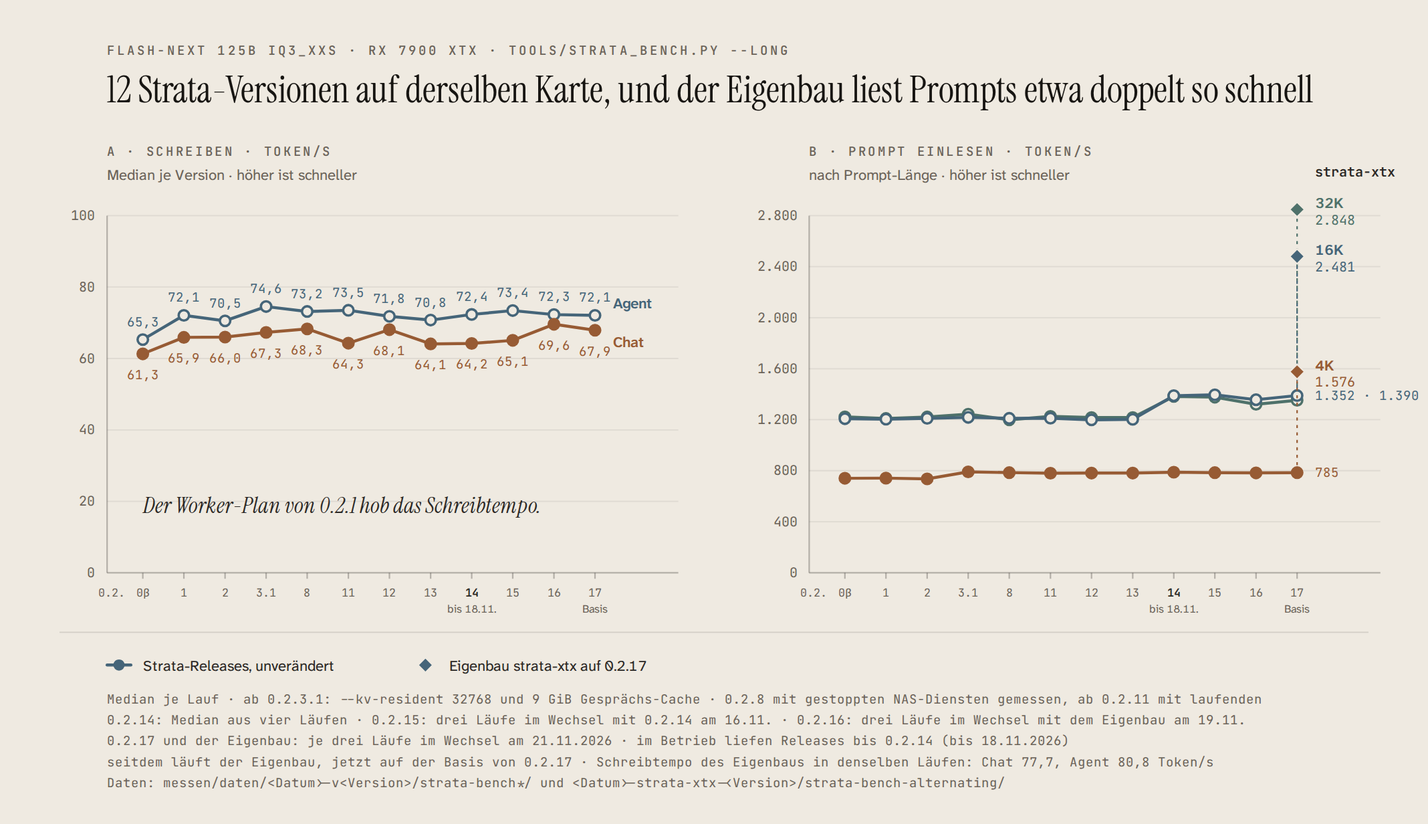
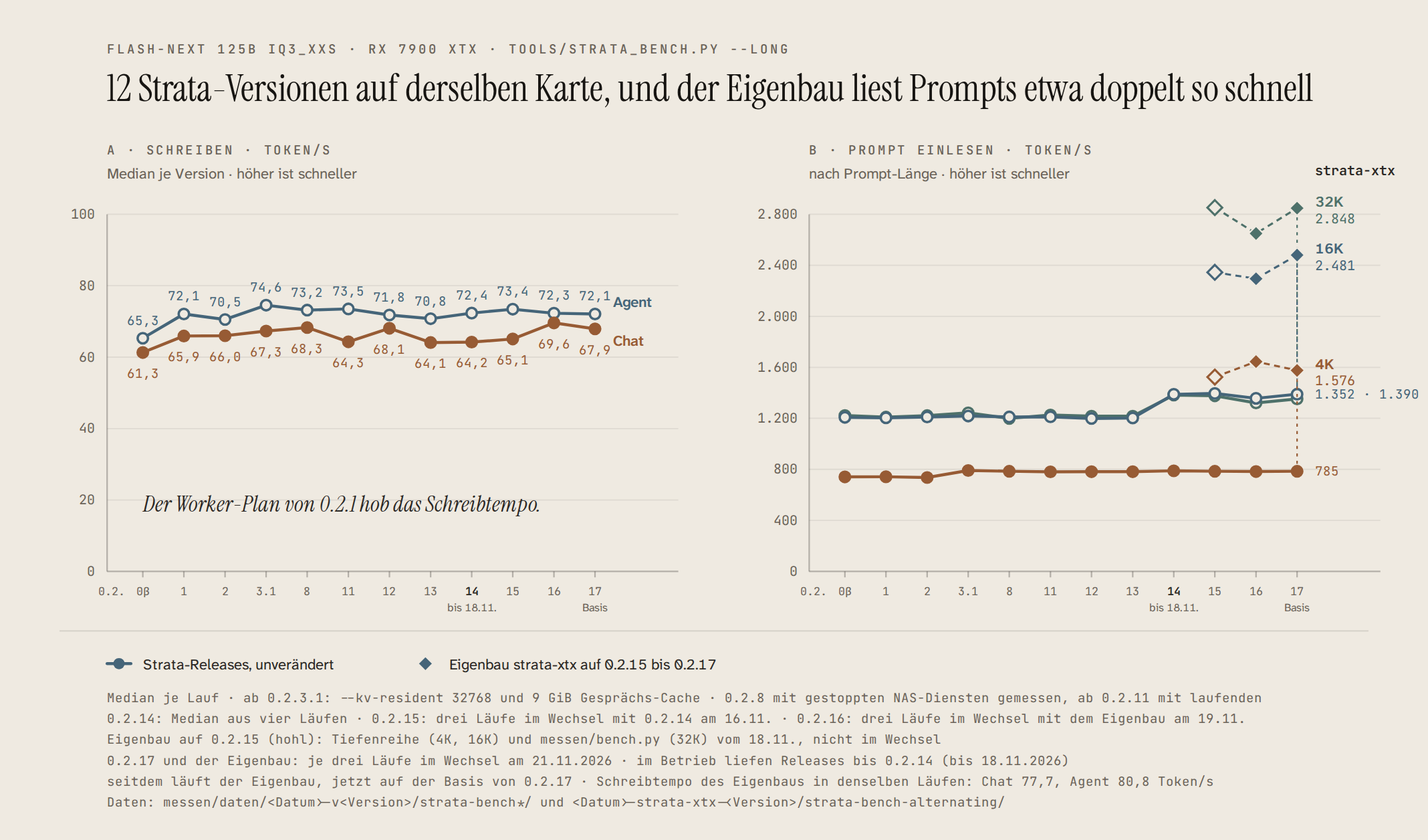
Release chart: my own build on every base it ran on (0.2.15 hollow, other measurements), dashed across 0.2.15 to 0.2.17

diff --git a/bilder/html/versionen-en.html b/bilder/html/versionen-en.html
@@ -16,10 +16,10 @@
 </head>
 <body>
   <div class="frame"><div class="scroll">
-    <svg viewBox="0 0 960 564" xmlns="http://www.w3.org/2000/svg" role="img" aria-labelledby="versionen-en-title versionen-en-desc">
+    <svg viewBox="0 0 960 580" xmlns="http://www.w3.org/2000/svg" role="img" aria-labelledby="versionen-en-title versionen-en-desc">
       <title id="versionen-en-title">12 Strata releases on the same card, and my own build reads </title>
       <desc id="versionen-en-desc">Chat and agent decode speed and prompt reading speed at 4K, 16K and 32K for Strata releases 0.2.0-beta to 0.2.17 on one RX 7900 XTX; decode stays within its scatter, prompt reading at 16K and 32K rises with 0.2.14 and holds since. My own build strata-xtx on 0.2.17 reads 1,576, 2,481 and 2,848 tokens per second at 4K, 16K and 32K.</desc>
-      <rect width="960" height="564" fill="#efeae1"/>
+      <rect width="960" height="580" fill="#efeae1"/>
       <text x="72.0" y="36.0" fill="#6a6258" font-size="8.5" font-family="'JetBrains Mono', Consolas, monospace" font-weight="500" letter-spacing="0.16em">FLASH-NEXT 125B IQ3_XXS · RX 7900 XTX · TOOLS/STRATA_BENCH.PY --LONG</text>
       <text x="72.0" y="68.0" fill="#171512" font-size="25" font-family="'Instrument Serif', Georgia, serif">12 Strata releases on the same card, and my own build reads prompts about twice as fast</text>
       <text x="72.0" y="104.0" fill="#6a6258" font-size="8.5" font-family="'JetBrains Mono', Consolas, monospace" font-weight="500" letter-spacing="0.14em">A · DECODE · TOKENS/S</text>
@@ -176,6 +176,9 @@
       <circle cx="844.4" cy="270.8" r="3.5" fill="#efeae1" stroke="#4e716a" stroke-width="1.6"/>
       <circle cx="872.0" cy="268.1" r="3.5" fill="#efeae1" stroke="#4e716a" stroke-width="1.6"/>
       <line x1="872.0" y1="263.1" x2="872.0" y2="145.9" stroke="#4e716a" stroke-width="1" stroke-dasharray="2,3"/>
+      <polyline points="816.7,139.5 844.4,156.9 872.0,139.9" fill="none" stroke="#4e716a" stroke-width="1.4" stroke-dasharray="4,3"/>
+      <path d="M816.7,134.5 l5,5 l-5,5 l-5,-5 z" fill="#efeae1" stroke="#4e716a" stroke-width="1.4"/>
+      <path d="M844.4,151.9 l5,5 l-5,5 l-5,-5 z" fill="#4e716a" stroke="#efeae1" stroke-width="1"/>
       <path d="M872.0,134.9 l5,5 l-5,5 l-5,-5 z" fill="#4e716a" stroke="#efeae1" stroke-width="1"/>
       <polyline points="568.0,280.5 595.6,280.8 623.3,280.2 650.9,279.6 678.5,280.2 706.2,280.1 733.8,281.2 761.5,280.9 789.1,265.0 816.7,264.4 844.4,267.7 872.0,264.9" fill="none" stroke="#456579" stroke-width="2" stroke-linejoin="round" stroke-linecap="round"/>
       <circle cx="568.0" cy="280.5" r="3.5" fill="#efeae1" stroke="#456579" stroke-width="1.6"/>
@@ -191,6 +194,9 @@
       <circle cx="844.4" cy="267.7" r="3.5" fill="#efeae1" stroke="#456579" stroke-width="1.6"/>
       <circle cx="872.0" cy="264.9" r="3.5" fill="#efeae1" stroke="#456579" stroke-width="1.6"/>
       <line x1="872.0" y1="259.9" x2="872.0" y2="177.4" stroke="#456579" stroke-width="1" stroke-dasharray="2,3"/>
+      <polyline points="816.7,183.0 844.4,187.3 872.0,171.4" fill="none" stroke="#456579" stroke-width="1.4" stroke-dasharray="4,3"/>
+      <path d="M816.7,178.0 l5,5 l-5,5 l-5,-5 z" fill="#efeae1" stroke="#456579" stroke-width="1.4"/>
+      <path d="M844.4,182.3 l5,5 l-5,5 l-5,-5 z" fill="#456579" stroke="#efeae1" stroke-width="1"/>
       <path d="M872.0,166.4 l5,5 l-5,5 l-5,-5 z" fill="#456579" stroke="#efeae1" stroke-width="1"/>
       <polyline points="568.0,320.5 595.6,320.4 623.3,320.9 650.9,316.2 678.5,316.7 706.2,317.1 733.8,317.0 761.5,317.0 789.1,316.4 816.7,316.7 844.4,316.9 872.0,316.7" fill="none" stroke="#975b34" stroke-width="2" stroke-linejoin="round" stroke-linecap="round"/>
       <circle cx="568.0" cy="320.5" r="3.5" fill="#975b34" stroke="#975b34" stroke-width="1.6"/>
@@ -206,6 +212,9 @@
       <circle cx="844.4" cy="316.9" r="3.5" fill="#975b34" stroke="#975b34" stroke-width="1.6"/>
       <circle cx="872.0" cy="316.7" r="3.5" fill="#975b34" stroke="#975b34" stroke-width="1.6"/>
       <line x1="872.0" y1="311.7" x2="872.0" y2="254.9" stroke="#975b34" stroke-width="1" stroke-dasharray="2,3"/>
+      <polyline points="816.7,253.4 844.4,243.0 872.0,248.9" fill="none" stroke="#975b34" stroke-width="1.4" stroke-dasharray="4,3"/>
+      <path d="M816.7,248.4 l5,5 l-5,5 l-5,-5 z" fill="#efeae1" stroke="#975b34" stroke-width="1.4"/>
+      <path d="M844.4,238.0 l5,5 l-5,5 l-5,-5 z" fill="#975b34" stroke="#efeae1" stroke-width="1"/>
       <path d="M872.0,243.9 l5,5 l-5,5 l-5,-5 z" fill="#975b34" stroke="#efeae1" stroke-width="1"/>
       <text x="884.0" y="138.9" fill="#4e716a" font-size="10" font-family="'Atkinson Hyperlegible Next', 'Segoe UI', sans-serif" font-weight="600">32K</text>
       <text x="884.0" y="149.9" fill="#4e716a" font-size="9" font-family="'JetBrains Mono', Consolas, monospace">2,848</text>
@@ -222,13 +231,14 @@
       <circle cx="80.0" cy="446.0" r="3" fill="#456579" stroke="#456579" stroke-width="1.6"/>
       <text x="96.0" y="450.0" fill="#2a2724" font-size="10" font-family="'Atkinson Hyperlegible Next', 'Segoe UI', sans-serif">Strata releases, unchanged</text>
       <path d="M275.0,441.0 l5,5 l-5,5 l-5,-5 z" fill="#456579" stroke="#efeae1" stroke-width="1"/>
-      <text x="291.0" y="450.0" fill="#2a2724" font-size="10" font-family="'Atkinson Hyperlegible Next', 'Segoe UI', sans-serif">my own build strata-xtx on 0.2.17</text>
+      <text x="291.0" y="450.0" fill="#2a2724" font-size="10" font-family="'Atkinson Hyperlegible Next', 'Segoe UI', sans-serif">my own build strata-xtx on 0.2.15 to 0.2.17</text>
       <text x="72.0" y="472.0" fill="#6a6258" font-size="8.5" font-family="'JetBrains Mono', Consolas, monospace">median per run · from 0.2.3.1: --kv-resident 32768 and 9 GiB conversation cache</text>
       <text x="72.0" y="486.0" fill="#6a6258" font-size="8.5" font-family="'JetBrains Mono', Consolas, monospace">0.2.8 measured with the NAS services stopped, from 0.2.11 with them running · 0.2.14: median of four runs</text>
       <text x="72.0" y="500.0" fill="#6a6258" font-size="8.5" font-family="'JetBrains Mono', Consolas, monospace">0.2.15: three runs alternating with 0.2.14 on 16 Nov · 0.2.16: three runs alternating with my own build on 19 Nov</text>
-      <text x="72.0" y="514.0" fill="#6a6258" font-size="8.5" font-family="'JetBrains Mono', Consolas, monospace">0.2.17 and my own build: three runs each, alternating, on 21 Nov 2026 · releases were in use up to 0.2.14 (until 18 Nov 2026)</text>
-      <text x="72.0" y="528.0" fill="#6a6258" font-size="8.5" font-family="'JetBrains Mono', Consolas, monospace">since then my own build runs, now on the base of 0.2.17 · decode of the own build in the same runs: chat 77.7, agent 80.8 tokens/s</text>
-      <text x="72.0" y="542.0" fill="#6a6258" font-size="8.5" font-family="'JetBrains Mono', Consolas, monospace">data: messen/daten/&lt;date&gt;-v&lt;release&gt;/strata-bench*/ and &lt;date&gt;-strata-xtx-&lt;release&gt;/strata-bench-alternating/</text>
+      <text x="72.0" y="514.0" fill="#6a6258" font-size="8.5" font-family="'JetBrains Mono', Consolas, monospace">my own build on 0.2.15 (hollow): depth series (4K, 16K) and messen/bench.py (32K) on 18 Nov, not alternating</text>
+      <text x="72.0" y="528.0" fill="#6a6258" font-size="8.5" font-family="'JetBrains Mono', Consolas, monospace">0.2.17 and my own build: three runs each, alternating, on 21 Nov 2026 · releases were in use up to 0.2.14 (until 18 Nov 2026)</text>
+      <text x="72.0" y="542.0" fill="#6a6258" font-size="8.5" font-family="'JetBrains Mono', Consolas, monospace">since then my own build runs, now on the base of 0.2.17 · decode of the own build in the same runs: chat 77.7, agent 80.8 tokens/s</text>
+      <text x="72.0" y="556.0" fill="#6a6258" font-size="8.5" font-family="'JetBrains Mono', Consolas, monospace">data: messen/daten/&lt;date&gt;-v&lt;release&gt;/strata-bench*/ and &lt;date&gt;-strata-xtx-&lt;release&gt;/strata-bench-alternating/</text>
     </svg>
   </div></div>
 </body>

diff --git a/bilder/html/versionen-de.html b/bilder/html/versionen-de.html
@@ -16,10 +16,10 @@
 </head>
 <body>
   <div class="frame"><div class="scroll">
-    <svg viewBox="0 0 960 552" xmlns="http://www.w3.org/2000/svg" role="img" aria-labelledby="versionen-de-title versionen-de-desc">
+    <svg viewBox="0 0 960 564" xmlns="http://www.w3.org/2000/svg" role="img" aria-labelledby="versionen-de-title versionen-de-desc">
       <title id="versionen-de-title">12 Strata-Versionen auf derselben Karte, und der Eigenbau li</title>
       <desc id="versionen-de-desc">Schreibtempo für Chat und Agent und Einlesetempo bei 4K, 16K und 32K für die Strata-Versionen 0.2.0-beta bis 0.2.17 auf einer RX 7900 XTX; das Schreibtempo bleibt in seiner Streuung, das Einlesen bei 16K und 32K steigt mit 0.2.14 und hält seitdem. Der Eigenbau strata-xtx auf 0.2.17 liest bei 4K, 16K und 32K 1.576, 2.481 und 2.848 Token je Sekunde.</desc>
-      <rect width="960" height="552" fill="#efeae1"/>
+      <rect width="960" height="564" fill="#efeae1"/>
       <text x="72.0" y="36.0" fill="#6a6258" font-size="8.5" font-family="'JetBrains Mono', Consolas, monospace" font-weight="500" letter-spacing="0.16em">FLASH-NEXT 125B IQ3_XXS · RX 7900 XTX · TOOLS/STRATA_BENCH.PY --LONG</text>
       <text x="72.0" y="68.0" fill="#171512" font-size="25" font-family="'Instrument Serif', Georgia, serif">12 Strata-Versionen auf derselben Karte, und der Eigenbau liest Prompts etwa doppelt so schnell</text>
       <text x="72.0" y="104.0" fill="#6a6258" font-size="8.5" font-family="'JetBrains Mono', Consolas, monospace" font-weight="500" letter-spacing="0.14em">A · SCHREIBEN · TOKEN/S</text>
@@ -176,6 +176,9 @@
       <circle cx="844.4" cy="270.8" r="3.5" fill="#efeae1" stroke="#4e716a" stroke-width="1.6"/>
       <circle cx="872.0" cy="268.1" r="3.5" fill="#efeae1" stroke="#4e716a" stroke-width="1.6"/>
       <line x1="872.0" y1="263.1" x2="872.0" y2="145.9" stroke="#4e716a" stroke-width="1" stroke-dasharray="2,3"/>
+      <polyline points="816.7,139.5 844.4,156.9 872.0,139.9" fill="none" stroke="#4e716a" stroke-width="1.4" stroke-dasharray="4,3"/>
+      <path d="M816.7,134.5 l5,5 l-5,5 l-5,-5 z" fill="#efeae1" stroke="#4e716a" stroke-width="1.4"/>
+      <path d="M844.4,151.9 l5,5 l-5,5 l-5,-5 z" fill="#4e716a" stroke="#efeae1" stroke-width="1"/>
       <path d="M872.0,134.9 l5,5 l-5,5 l-5,-5 z" fill="#4e716a" stroke="#efeae1" stroke-width="1"/>
       <polyline points="568.0,280.5 595.6,280.8 623.3,280.2 650.9,279.6 678.5,280.2 706.2,280.1 733.8,281.2 761.5,280.9 789.1,265.0 816.7,264.4 844.4,267.7 872.0,264.9" fill="none" stroke="#456579" stroke-width="2" stroke-linejoin="round" stroke-linecap="round"/>
       <circle cx="568.0" cy="280.5" r="3.5" fill="#efeae1" stroke="#456579" stroke-width="1.6"/>
@@ -191,6 +194,9 @@
       <circle cx="844.4" cy="267.7" r="3.5" fill="#efeae1" stroke="#456579" stroke-width="1.6"/>
       <circle cx="872.0" cy="264.9" r="3.5" fill="#efeae1" stroke="#456579" stroke-width="1.6"/>
       <line x1="872.0" y1="259.9" x2="872.0" y2="177.4" stroke="#456579" stroke-width="1" stroke-dasharray="2,3"/>
+      <polyline points="816.7,183.0 844.4,187.3 872.0,171.4" fill="none" stroke="#456579" stroke-width="1.4" stroke-dasharray="4,3"/>
+      <path d="M816.7,178.0 l5,5 l-5,5 l-5,-5 z" fill="#efeae1" stroke="#456579" stroke-width="1.4"/>
+      <path d="M844.4,182.3 l5,5 l-5,5 l-5,-5 z" fill="#456579" stroke="#efeae1" stroke-width="1"/>
       <path d="M872.0,166.4 l5,5 l-5,5 l-5,-5 z" fill="#456579" stroke="#efeae1" stroke-width="1"/>
       <polyline points="568.0,320.5 595.6,320.4 623.3,320.9 650.9,316.2 678.5,316.7 706.2,317.1 733.8,317.0 761.5,317.0 789.1,316.4 816.7,316.7 844.4,316.9 872.0,316.7" fill="none" stroke="#975b34" stroke-width="2" stroke-linejoin="round" stroke-linecap="round"/>
       <circle cx="568.0" cy="320.5" r="3.5" fill="#975b34" stroke="#975b34" stroke-width="1.6"/>
@@ -206,6 +212,9 @@
       <circle cx="844.4" cy="316.9" r="3.5" fill="#975b34" stroke="#975b34" stroke-width="1.6"/>
       <circle cx="872.0" cy="316.7" r="3.5" fill="#975b34" stroke="#975b34" stroke-width="1.6"/>
       <line x1="872.0" y1="311.7" x2="872.0" y2="254.9" stroke="#975b34" stroke-width="1" stroke-dasharray="2,3"/>
+      <polyline points="816.7,253.4 844.4,243.0 872.0,248.9" fill="none" stroke="#975b34" stroke-width="1.4" stroke-dasharray="4,3"/>
+      <path d="M816.7,248.4 l5,5 l-5,5 l-5,-5 z" fill="#efeae1" stroke="#975b34" stroke-width="1.4"/>
+      <path d="M844.4,238.0 l5,5 l-5,5 l-5,-5 z" fill="#975b34" stroke="#efeae1" stroke-width="1"/>
       <path d="M872.0,243.9 l5,5 l-5,5 l-5,-5 z" fill="#975b34" stroke="#efeae1" stroke-width="1"/>
       <text x="884.0" y="138.9" fill="#4e716a" font-size="10" font-family="'Atkinson Hyperlegible Next', 'Segoe UI', sans-serif" font-weight="600">32K</text>
       <text x="884.0" y="149.9" fill="#4e716a" font-size="9" font-family="'JetBrains Mono', Consolas, monospace">2.848</text>
@@ -222,12 +231,13 @@
       <circle cx="80.0" cy="446.0" r="3" fill="#456579" stroke="#456579" stroke-width="1.6"/>
       <text x="96.0" y="450.0" fill="#2a2724" font-size="10" font-family="'Atkinson Hyperlegible Next', 'Segoe UI', sans-serif">Strata-Releases, unverändert</text>
       <path d="M286.0,441.0 l5,5 l-5,5 l-5,-5 z" fill="#456579" stroke="#efeae1" stroke-width="1"/>
-      <text x="302.0" y="450.0" fill="#2a2724" font-size="10" font-family="'Atkinson Hyperlegible Next', 'Segoe UI', sans-serif">Eigenbau strata-xtx auf 0.2.17</text>
+      <text x="302.0" y="450.0" fill="#2a2724" font-size="10" font-family="'Atkinson Hyperlegible Next', 'Segoe UI', sans-serif">Eigenbau strata-xtx auf 0.2.15 bis 0.2.17</text>
       <text x="72.0" y="472.0" fill="#6a6258" font-size="8.5" font-family="'JetBrains Mono', Consolas, monospace">Median je Lauf · ab 0.2.3.1: --kv-resident 32768 und 9 GiB Gesprächs-Cache · 0.2.8 mit gestoppten NAS-Diensten gemessen, ab 0.2.11 mit laufenden</text>
       <text x="72.0" y="486.0" fill="#6a6258" font-size="8.5" font-family="'JetBrains Mono', Consolas, monospace">0.2.14: Median aus vier Läufen · 0.2.15: drei Läufe im Wechsel mit 0.2.14 am 16.11. · 0.2.16: drei Läufe im Wechsel mit dem Eigenbau am 19.11.</text>
-      <text x="72.0" y="500.0" fill="#6a6258" font-size="8.5" font-family="'JetBrains Mono', Consolas, monospace">0.2.17 und der Eigenbau: je drei Läufe im Wechsel am 21.11.2026 · im Betrieb liefen Releases bis 0.2.14 (bis 18.11.2026)</text>
-      <text x="72.0" y="514.0" fill="#6a6258" font-size="8.5" font-family="'JetBrains Mono', Consolas, monospace">seitdem läuft der Eigenbau, jetzt auf der Basis von 0.2.17 · Schreibtempo des Eigenbaus in denselben Läufen: Chat 77,7, Agent 80,8 Token/s</text>
-      <text x="72.0" y="528.0" fill="#6a6258" font-size="8.5" font-family="'JetBrains Mono', Consolas, monospace">Daten: messen/daten/&lt;Datum&gt;-v&lt;Version&gt;/strata-bench*/ und &lt;Datum&gt;-strata-xtx-&lt;Version&gt;/strata-bench-alternating/</text>
+      <text x="72.0" y="500.0" fill="#6a6258" font-size="8.5" font-family="'JetBrains Mono', Consolas, monospace">Eigenbau auf 0.2.15 (hohl): Tiefenreihe (4K, 16K) und messen/bench.py (32K) vom 18.11., nicht im Wechsel</text>
+      <text x="72.0" y="514.0" fill="#6a6258" font-size="8.5" font-family="'JetBrains Mono', Consolas, monospace">0.2.17 und der Eigenbau: je drei Läufe im Wechsel am 21.11.2026 · im Betrieb liefen Releases bis 0.2.14 (bis 18.11.2026)</text>
+      <text x="72.0" y="528.0" fill="#6a6258" font-size="8.5" font-family="'JetBrains Mono', Consolas, monospace">seitdem läuft der Eigenbau, jetzt auf der Basis von 0.2.17 · Schreibtempo des Eigenbaus in denselben Läufen: Chat 77,7, Agent 80,8 Token/s</text>
+      <text x="72.0" y="542.0" fill="#6a6258" font-size="8.5" font-family="'JetBrains Mono', Consolas, monospace">Daten: messen/daten/&lt;Datum&gt;-v&lt;Version&gt;/strata-bench*/ und &lt;Datum&gt;-strata-xtx-&lt;Version&gt;/strata-bench-alternating/</text>
     </svg>
   </div></div>
 </body>

diff --git a/messen/diagramme.py b/messen/diagramme.py
@@ -59,8 +59,9 @@ class Svg:
         f = PAPER if hohl else farbe
         self.e.append(f'<circle cx="{x:.1f}" cy="{y:.1f}" r="{r}" fill="{f}" stroke="{farbe}" stroke-width="1.6"/>')
 
-    def raute(self, x, y, farbe, r=5):
-        self.e.append(f'<path d="M{x:.1f},{y - r:.1f} l{r},{r} l{-r},{r} l{-r},{-r} z" fill="{farbe}" stroke="{PAPER}" stroke-width="1"/>')
+    def raute(self, x, y, farbe, r=5, hohl=False):
+        rand = f'stroke="{farbe}" stroke-width="1.4"' if hohl else f'stroke="{PAPER}" stroke-width="1"'
+        self.e.append(f'<path d="M{x:.1f},{y - r:.1f} l{r},{r} l{-r},{r} l{-r},{-r} z" fill="{PAPER if hohl else farbe}" {rand}/>')
 
     def zug(self, pts, farbe, sw=2):
         p = " ".join(f"{x:.1f},{y:.1f}" for x, y in pts)
@@ -372,6 +373,11 @@ VERSIONEN = [("0.2.0β", "2026-10-19/strata-0.2.0-beta/strata-bench-results.json
              ("0.2.17", [f"{XTX_DATEN}/strata-bench-alternating/round{n}-release-0.2.17.json" for n in (1, 2, 3)])]   # dasselbe am 21.11.
 XTX_BENCH = [f"{XTX_DATEN}/strata-bench-alternating/round{n}-strata-xtx-{XTX_VER}.json" for n in (1, 2, 3)]            # der Eigenbau auf derselben Basis
 IN_BETRIEB, GEPRUEFT = "0.2.14", XTX_VER   # letztes Release im Betrieb · Basis des Eigenbaus
+# Der Eigenbau auf jeder Basis, auf der er lief (Franks Wunsch 21.11.2026). 0.2.16 und 0.2.17: strata_bench im Wechsel.
+# 0.2.15 wurde nicht mit strata_bench gemessen: 4K und 16K aus der Tiefenreihe, 32K aus messen/bench.py, beide 18.11.2026; im Diagramm hohl.
+XTX_VERLAUF = [("0.2.15", "tiefe+bench", "2026-11-18-strata-xtx"),
+               ("0.2.16", [f"{XTX_VOR}/strata-bench-alternating/round{n}-strata-xtx-0.2.16.json" for n in (1, 2, 3)], None),
+               (XTX_VER, XTX_BENCH, None)]
 
 
 def versionen(d, sp):
@@ -381,6 +387,14 @@ def versionen(d, sp):
         return {k: med([w[k] for w in ws]) for k in ws[0]}
     werte = [lauf(p) for _, p in VERSIONEN]
     xtx = lauf(XTX_BENCH)
+    def xtx_basis(quelle, ordner):                 # 0.2.15: andere Messart (siehe XTX_VERLAUF)
+        if quelle != "tiefe+bench":
+            return lauf(quelle), False
+        td = tiefe_daten(d, "tiefe-20261118.jsonl")["faber-xtx"]
+        b = json.load(open(os.path.join(d, ordner, "bench", "faber-xtx.json"), encoding="utf-8"))
+        return {"4K": med([r["prompt_tps"] for r in td[4096]]), "16K": med([r["prompt_tps"] for r in td[16384]]), "32K": b["einlesen_32000"]["tps_median"]}, True
+    namen = [nm for nm, _ in VERSIONEN]
+    verlauf = [(namen.index(v), *xtx_basis(q, o)) for v, q, o in XTX_VERLAUF if v in namen]
     n = len(werte)
     s = Svg()
     zahlwort = {8: ("Eight", "Acht"), 9: ("Nine", "Neun"), 10: ("Ten", "Zehn"), 11: ("Eleven", "Elf")}.get(n, (str(n), str(n)))
@@ -413,7 +427,10 @@ def versionen(d, sp):
                 marken.append((p.Y(ys[-1]), farbe, name, None))
             else:                                  # der Eigenbau auf derselben Basis: Raute über dem letzten Release
                 s.line(X(n - 1), p.Y(ys[-1]) - 5, X(n - 1), p.Y(xtx[schl]) + 6, f'stroke="{farbe}" stroke-width="1" stroke-dasharray="2,3"')
-                s.raute(X(n - 1), p.Y(xtx[schl]), farbe)
+                pts = [(X(i), p.Y(w_[schl])) for i, w_, _ in verlauf]
+                s.roh(f'<polyline points="{" ".join(f"{a:.1f},{b:.1f}" for a, b in pts)}" fill="none" stroke="{farbe}" stroke-width="1.4" stroke-dasharray="4,3"/>')
+                for (i, w_, hohl_), (a, b) in zip(verlauf, pts):
+                    s.raute(a, b, farbe, hohl=hohl_)
                 marken.append((p.Y(xtx[schl]), farbe, name, z(xtx[schl], sp)))
         endmarken(s, X(n - 1) + 12, marken)
         if not jeder:
@@ -421,9 +438,9 @@ def versionen(d, sp):
             s.text(X(n - 1) + 12, p.Y(werte[-1]["16K"]) + 3, f"{z(werte[-1]['32K'], sp)} · {z(werte[-1]['16K'], sp)}", 8.5, STAHL, "mono")
             s.text(X(n - 1) + 12, p.Y(werte[-1]["4K"]) + 3, z(werte[-1]["4K"], sp), 8.5, ACC, "mono")
     s.text(L + 24, 344, "0.2.1's worker plan for hybrid CPUs lifted decode." if en else "Der Worker-Plan von 0.2.1 hob das Schreibtempo.", 15, INK, "serif", kursiv=True)
-    h = fuss(s, 424, (("linie", STAHL, "Strata releases, unchanged" if en else "Strata-Releases, unverändert"), ("raute", STAHL, f"my own build strata-xtx on {XTX_VER}" if en else f"Eigenbau strata-xtx auf {XTX_VER}")),
-             f"median per run · from 0.2.3.1: --kv-resident 32768 and 9 GiB conversation cache · 0.2.8 measured with the NAS services stopped, from 0.2.11 with them running · 0.2.14: median of four runs · 0.2.15: three runs alternating with 0.2.14 on 16 Nov · 0.2.16: three runs alternating with my own build on 19 Nov · {XTX_VER} and my own build: three runs each, alternating, on {XTX_TAG['en']} · releases were in use up to 0.2.14 (until 18 Nov 2026) · since then my own build runs, now on the base of {XTX_VER} · decode of the own build in the same runs: chat {z(xtx['chat'], sp)}, agent {z(xtx['agent'], sp)} tokens/s · data: messen/daten/<date>-v<release>/strata-bench*/ and <date>-strata-xtx-<release>/strata-bench-alternating/" if en else
-             f"Median je Lauf · ab 0.2.3.1: --kv-resident 32768 und 9 GiB Gesprächs-Cache · 0.2.8 mit gestoppten NAS-Diensten gemessen, ab 0.2.11 mit laufenden · 0.2.14: Median aus vier Läufen · 0.2.15: drei Läufe im Wechsel mit 0.2.14 am 16.11. · 0.2.16: drei Läufe im Wechsel mit dem Eigenbau am 19.11. · {XTX_VER} und der Eigenbau: je drei Läufe im Wechsel am {XTX_TAG['de']} · im Betrieb liefen Releases bis 0.2.14 (bis 18.11.2026) · seitdem läuft der Eigenbau, jetzt auf der Basis von {XTX_VER} · Schreibtempo des Eigenbaus in denselben Läufen: Chat {z(xtx['chat'], sp)}, Agent {z(xtx['agent'], sp)} Token/s · Daten: messen/daten/<Datum>-v<Version>/strata-bench*/ und <Datum>-strata-xtx-<Version>/strata-bench-alternating/")
+    h = fuss(s, 424, (("linie", STAHL, "Strata releases, unchanged" if en else "Strata-Releases, unverändert"), ("raute", STAHL, f"my own build strata-xtx on 0.2.15 to {XTX_VER}" if en else f"Eigenbau strata-xtx auf 0.2.15 bis {XTX_VER}")),
+             f"median per run · from 0.2.3.1: --kv-resident 32768 and 9 GiB conversation cache · 0.2.8 measured with the NAS services stopped, from 0.2.11 with them running · 0.2.14: median of four runs · 0.2.15: three runs alternating with 0.2.14 on 16 Nov · 0.2.16: three runs alternating with my own build on 19 Nov · my own build on 0.2.15 (hollow): depth series (4K, 16K) and messen/bench.py (32K) on 18 Nov, not alternating · {XTX_VER} and my own build: three runs each, alternating, on {XTX_TAG['en']} · releases were in use up to 0.2.14 (until 18 Nov 2026) · since then my own build runs, now on the base of {XTX_VER} · decode of the own build in the same runs: chat {z(xtx['chat'], sp)}, agent {z(xtx['agent'], sp)} tokens/s · data: messen/daten/<date>-v<release>/strata-bench*/ and <date>-strata-xtx-<release>/strata-bench-alternating/" if en else
+             f"Median je Lauf · ab 0.2.3.1: --kv-resident 32768 und 9 GiB Gesprächs-Cache · 0.2.8 mit gestoppten NAS-Diensten gemessen, ab 0.2.11 mit laufenden · 0.2.14: Median aus vier Läufen · 0.2.15: drei Läufe im Wechsel mit 0.2.14 am 16.11. · 0.2.16: drei Läufe im Wechsel mit dem Eigenbau am 19.11. · Eigenbau auf 0.2.15 (hohl): Tiefenreihe (4K, 16K) und messen/bench.py (32K) vom 18.11., nicht im Wechsel · {XTX_VER} und der Eigenbau: je drei Läufe im Wechsel am {XTX_TAG['de']} · im Betrieb liefen Releases bis 0.2.14 (bis 18.11.2026) · seitdem läuft der Eigenbau, jetzt auf der Basis von {XTX_VER} · Schreibtempo des Eigenbaus in denselben Läufen: Chat {z(xtx['chat'], sp)}, Agent {z(xtx['agent'], sp)} Token/s · Daten: messen/daten/<Datum>-v<Version>/strata-bench*/ und <Datum>-strata-xtx-<Version>/strata-bench-alternating/")
     return "versionen", titel, (f"Chat and agent decode speed and prompt reading speed at 4K, 16K and 32K for Strata releases 0.2.0-beta to {VERSIONEN[-1][0]} on one RX 7900 XTX; decode stays within its scatter, prompt reading at 16K and 32K rises with 0.2.14 and holds since. My own build strata-xtx on {XTX_VER} reads {z(xtx['4K'], sp)}, {z(xtx['16K'], sp)} and {z(xtx['32K'], sp)} tokens per second at 4K, 16K and 32K." if en else
                                 f"Schreibtempo für Chat und Agent und Einlesetempo bei 4K, 16K und 32K für die Strata-Versionen 0.2.0-beta bis {VERSIONEN[-1][0]} auf einer RX 7900 XTX; das Schreibtempo bleibt in seiner Streuung, das Einlesen bei 16K und 32K steigt mit 0.2.14 und hält seitdem. Der Eigenbau strata-xtx auf {XTX_VER} liest bei 4K, 16K und 32K {z(xtx['4K'], sp)}, {z(xtx['16K'], sp)} und {z(xtx['32K'], sp)} Token je Sekunde."), s, h
 

diff --git a/web/bau.py b/web/bau.py
@@ -419,8 +419,8 @@ def seite(sp):
 
     kapitel(9, "versionen", T("Hält es über Versionen?", "Does it hold across releases?"))
     A(bild(D.versionen, sp))
-    P(T(f"Jede Strata-Version seit 0.2.0-beta ist hier gegen ihre Vorgängerin gemessen, mit identischer Konfiguration. Bis 0.2.13 wurde nichts langsamer. <b>0.2.14</b> liest Prompts von 16K und 32K rund 15 % schneller und schreibt gleich schnell. <b>0.2.15</b> bringt nur ein neues Steuerprogramm. <b>0.2.16</b>, geprüft am 19.11.2026, hat einen eigenen Engine-Code und eine neue Ordnerstruktur; auf dieser Karte ändert es am Tempo nichts: Im direkten Wechsel mit 0.2.15 schreibt es 61 gegen 60 Token je Sekunde. <b>0.2.17</b>, geprüft am {XD}, ebenso: im Wechsel mit 0.2.16 62 gegen 62 Token je Sekunde, und es liest gleich schnell. Bis zum 18.11.2026 lief hier jeweils das Release. Seitdem läuft mein Eigenbau, seit dem {XD} auf der Basis von {XV}; die Rauten im Diagramm zeigen ihn, in denselben Läufen im Wechsel mit dem Release gemessen.",
-        f"Every Strata release since 0.2.0-beta was measured here against the one before it, with the identical configuration. Up to 0.2.13 nothing got slower. <b>0.2.14</b> reads prompts of 16K and 32K about 15 % faster and writes equally fast. <b>0.2.15</b> only brings a new control program. <b>0.2.16</b>, tested on 19 Nov 2026, has its own engine code and a new folder layout; on this card it changes nothing about speed: alternating directly with 0.2.15 it writes 61 against 60 tokens per second. <b>0.2.17</b>, tested on {XE}, likewise: alternating with 0.2.16 it writes 62 against 62 tokens per second, and it reads equally fast. Until 18 Nov 2026 the release itself ran here. Since then my own build runs, since {XE} on the base of {XV}; the diamonds in the chart show it, measured in the same runs alternating with the release.")
+    P(T(f"Jede Strata-Version seit 0.2.0-beta ist hier gegen ihre Vorgängerin gemessen, mit identischer Konfiguration. Bis 0.2.13 wurde nichts langsamer. <b>0.2.14</b> liest Prompts von 16K und 32K rund 15 % schneller und schreibt gleich schnell. <b>0.2.15</b> bringt nur ein neues Steuerprogramm. <b>0.2.16</b>, geprüft am 19.11.2026, hat einen eigenen Engine-Code und eine neue Ordnerstruktur; auf dieser Karte ändert es am Tempo nichts: Im direkten Wechsel mit 0.2.15 schreibt es 61 gegen 60 Token je Sekunde. <b>0.2.17</b>, geprüft am {XD}, ebenso: im Wechsel mit 0.2.16 62 gegen 62 Token je Sekunde, und es liest gleich schnell. Bis zum 18.11.2026 lief hier jeweils das Release. Seitdem läuft mein Eigenbau, seit dem {XD} auf der Basis von {XV}; die Rauten im Diagramm zeigen ihn auf jeder Basis, auf 0.2.16 und 0.2.17 in denselben Läufen im Wechsel mit dem Release gemessen, auf 0.2.15 (hohl) aus anderen Messungen.",
+        f"Every Strata release since 0.2.0-beta was measured here against the one before it, with the identical configuration. Up to 0.2.13 nothing got slower. <b>0.2.14</b> reads prompts of 16K and 32K about 15 % faster and writes equally fast. <b>0.2.15</b> only brings a new control program. <b>0.2.16</b>, tested on 19 Nov 2026, has its own engine code and a new folder layout; on this card it changes nothing about speed: alternating directly with 0.2.15 it writes 61 against 60 tokens per second. <b>0.2.17</b>, tested on {XE}, likewise: alternating with 0.2.16 it writes 62 against 62 tokens per second, and it reads equally fast. Until 18 Nov 2026 the release itself ran here. Since then my own build runs, since {XE} on the base of {XV}; the diamonds in the chart show it on each base, on 0.2.16 and 0.2.17 measured in the same runs alternating with the release, on 0.2.15 (hollow) from other measurements.")
       + f' <a href="{doc("releases")}">{T("Jede Version im Einzelnen", "Every release in detail")}</a>')
     zu()
 

diff --git a/README.de.md b/README.de.md
@@ -307,7 +307,7 @@ Stratas Engine bringt Umgebungsschalter für das Einlesen mit, die auf dieser Ka
 
 ## Strata-Versionen auf dieser Karte
 
-Jede Version seit 0.2.0-beta ist hier gegen ihre Vorgängerin gemessen, mit identischer Laufkonfiguration, nur Engine und Control getauscht. Seit dem 18.11.2026 läuft im Betrieb nicht mehr das Release, sondern der Eigenbau auf dessen Basis; im Diagramm steht er als Raute über dem Release 0.2.17. Einzelheiten, Tabellen und Rohdaten zu jeder Version: [docs/releases.de.md](docs/releases.de.md).
+Jede Version seit 0.2.0-beta ist hier gegen ihre Vorgängerin gemessen, mit identischer Laufkonfiguration, nur Engine und Control getauscht. Seit dem 18.11.2026 läuft im Betrieb nicht mehr das Release, sondern der Eigenbau auf dessen Basis; im Diagramm stehen die Rauten über 0.2.15 bis 0.2.17 für ihn auf jeder Basis (über 0.2.15 hohl, aus anderen Messungen, nicht im Wechsel). Einzelheiten, Tabellen und Rohdaten zu jeder Version: [docs/releases.de.md](docs/releases.de.md).
 
 ![Strata-Versionen auf derselben Karte](bilder/versionen-de.png)
 

diff --git a/README.md b/README.md
@@ -306,7 +306,7 @@ Strata's engine ships environment switches for prompt reading that are off on th
 
 ## Strata releases on this card
 
-Every release since 0.2.0-beta was measured here against the one before it, with the identical run config and only engine and control swapped. Since 18 Nov 2026 production no longer runs the release but my own build on its base; in the chart it is the diamond above the 0.2.17 release. Details, tables and raw data for each one: [docs/releases.md](docs/releases.md).
+Every release since 0.2.0-beta was measured here against the one before it, with the identical run config and only engine and control swapped. Since 18 Nov 2026 production no longer runs the release but my own build on its base; in the chart the diamonds above 0.2.15 to 0.2.17 show it on each base (on 0.2.15, hollow, from other measurements, not alternating). Details, tables and raw data for each one: [docs/releases.md](docs/releases.md).
 
 ![Strata releases on the same card](bilder/versionen-en.png)
 
